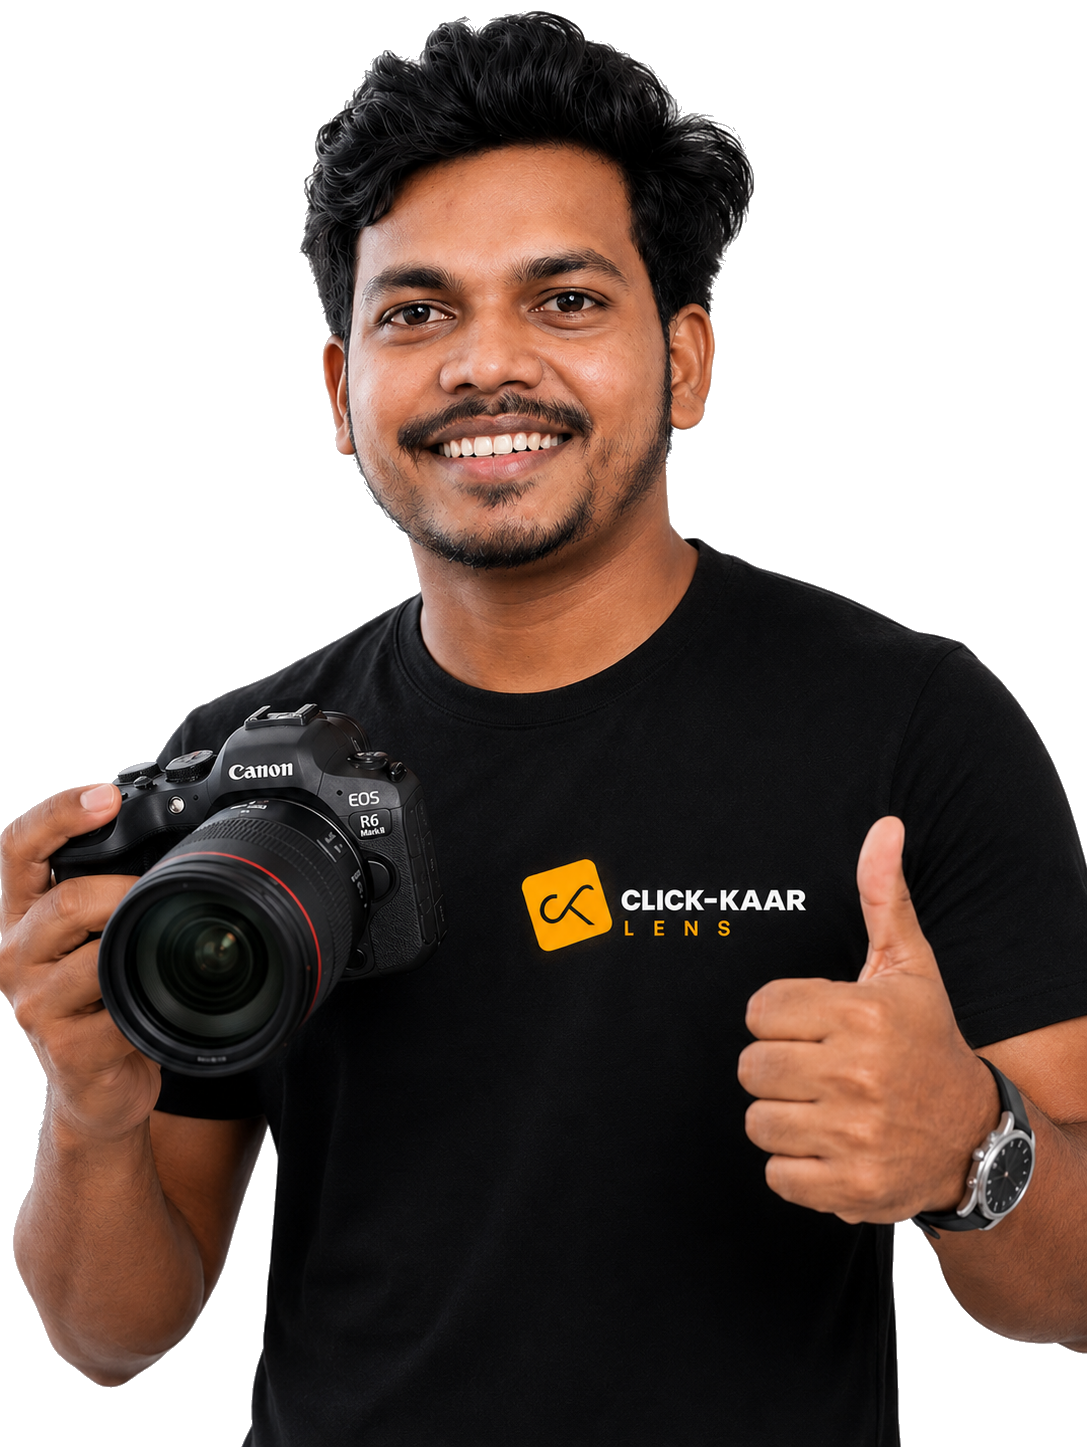
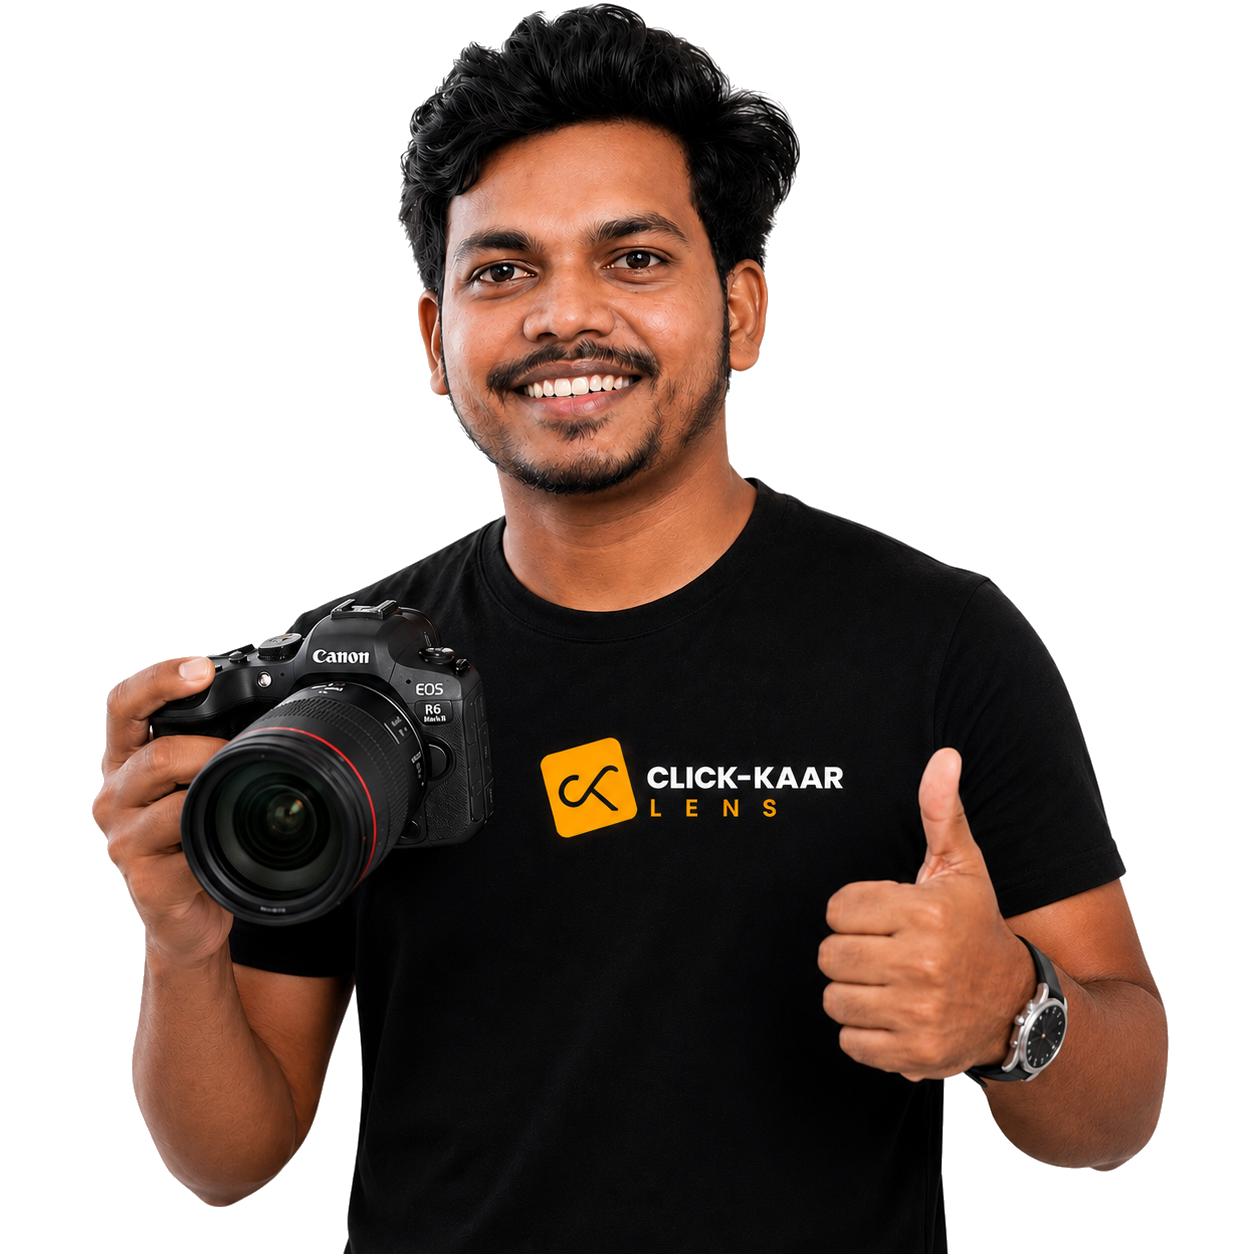
design changes

diff --git a/src/app/shared/components/lens-ui.components.ts b/src/app/shared/components/lens-ui.components.ts
@@ -347,8 +347,8 @@ export class PostRequirementFormComponent {
   template: `
     <div class="floating-contact">
       <a class="whatsapp" [href]="whatsappUrl" target="_blank" rel="noopener noreferrer" aria-label="Enquire on WhatsApp" title="WhatsApp" (click)="analytics.track('whatsapp_clicked')">
-        <svg aria-hidden="true" viewBox="0 0 32 32" focusable="false">
-          <path d="M16.02 4.5c-6.18 0-11.2 4.96-11.2 11.08 0 2.09.6 4.13 1.72 5.88L4.7 27.5l6.25-1.79a11.32 11.32 0 0 0 5.07 1.2c6.18 0 11.2-4.97 11.2-11.08S22.2 4.5 16.02 4.5Zm0 20.52c-1.7 0-3.37-.45-4.82-1.3l-.35-.2-3.7 1.06 1.08-3.55-.23-.37a9.23 9.23 0 0 1-1.4-4.86c0-5.07 4.23-9.2 9.42-9.2 5.2 0 9.42 4.13 9.42 9.2s-4.22 9.22-9.42 9.22Zm5.16-6.9c-.28-.14-1.66-.8-1.92-.9-.26-.08-.45-.13-.64.14-.19.28-.73.9-.9 1.08-.16.19-.33.2-.61.07-.28-.14-1.2-.43-2.28-1.37a8.45 8.45 0 0 1-1.58-1.94c-.17-.28-.02-.43.13-.57.13-.13.28-.33.42-.49.14-.16.19-.28.28-.46.1-.19.05-.35-.02-.49-.07-.14-.64-1.52-.88-2.08-.23-.55-.47-.47-.64-.48l-.55-.01c-.19 0-.49.07-.75.35-.26.28-.98.94-.98 2.3s1 2.67 1.14 2.86c.14.18 1.97 2.96 4.78 4.15.67.28 1.19.45 1.6.58.67.21 1.29.18 1.77.11.54-.08 1.66-.66 1.9-1.3.23-.63.23-1.18.16-1.29-.07-.12-.26-.19-.54-.32Z" />
+        <svg aria-hidden="true" viewBox="0 0 24 24" focusable="false">
+          <path d="M17.472 14.382c-.297-.149-1.758-.867-2.03-.967-.273-.099-.471-.148-.67.15-.197.297-.767.966-.94 1.164-.173.199-.347.223-.644.075-.297-.15-1.255-.463-2.39-1.475-.883-.788-1.48-1.761-1.653-2.059-.173-.297-.018-.458.13-.606.134-.133.298-.347.446-.52.149-.174.198-.298.298-.497.099-.198.05-.371-.025-.52-.075-.149-.669-1.612-.916-2.207-.242-.579-.487-.5-.669-.51-.173-.008-.371-.01-.57-.01-.198 0-.52.074-.792.372-.272.297-1.04 1.016-1.04 2.479 0 1.462 1.065 2.875 1.213 3.074.149.198 2.096 3.2 5.077 4.487.709.306 1.262.489 1.694.625.712.227 1.36.195 1.872.118.571-.085 1.758-.719 2.006-1.413.248-.694.248-1.289.173-1.413-.074-.124-.272-.198-.57-.347m-5.421 7.403h-.004a9.87 9.87 0 0 1-5.031-1.378l-.361-.214-3.741.982.998-3.648-.235-.374a9.86 9.86 0 0 1-1.51-5.26c.001-5.45 4.436-9.884 9.888-9.884 2.64 0 5.122 1.03 6.988 2.898a9.825 9.825 0 0 1 2.893 6.994c-.003 5.45-4.437 9.884-9.885 9.884m8.413-18.297A11.815 11.815 0 0 0 12.05 0C5.495 0 .16 5.335.157 11.892c0 2.096.547 4.142 1.588 5.945L.057 24l6.305-1.654a11.882 11.882 0 0 0 5.683 1.448h.005c6.554 0 11.89-5.335 11.893-11.893a11.821 11.821 0 0 0-3.48-8.413Z" />
         </svg>
       </a>
       <!-- <a class="mobile-call" [href]="callHref" aria-label="Call Click-Kaar Lens" (click)="analytics.track('call_clicked')">Call</a> -->

diff --git a/src/styles.scss b/src/styles.scss
@@ -99,7 +99,13 @@ main { padding-top: 0; }
 }
 
 .brand { display: inline-flex; gap: 10px; align-items: center; flex-shrink: 0; font-weight: 900; }
-.brand-logo { width: clamp(230px, 22vw, 330px); height: 64px; object-fit: contain; background: transparent; }
+.brand-logo {
+  width: clamp(200px, 220vw, 280px);
+  height: 64px;
+  object-fit: cover;
+  object-position: center;
+  background: transparent;
+}
 .brand-copy { display: grid; gap: 0; line-height: 1.02; }
 .brand-copy strong { color: var(--ink); font-size: 1.04rem; font-weight: 950; }
 .brand-copy em { color: var(--brand); font-style: normal; font-size: .86rem; font-weight: 900; letter-spacing: .14em; text-transform: uppercase; }
@@ -587,8 +593,16 @@ main { padding-top: 0; }
 }
 .page-section.tinted > *, .tinted > * { position: relative; z-index: 1; }
 .section-heading { max-width: 760px; margin-bottom: 28px; }
-.section-heading p, .sub-hero p { color: var(--brand); font-weight: 900; text-transform: uppercase; font-size: clamp(1rem, 1.5vw, 1.18rem); letter-spacing: .16em; }
+.section-heading p, .sub-hero p { color: var(--ink); font-weight: 900; text-transform: uppercase; font-size: clamp(1rem, 1.5vw, 1.18rem); letter-spacing: .16em; }
 .section-heading h2, .cta-band h2, .page-section h2 { font-size: clamp(2.25rem, 5vw, 4.4rem); line-height: .98; letter-spacing: -.045em; margin: 0 0 12px; font-weight: 950; }
+.requirement-section .section-heading p,
+.popular-services .section-heading p,
+.our-services .section-heading p,
+.why-choose-section .section-heading p,
+.customer-reviews .section-heading p,
+.write-review-copy .eyebrow {
+  color: var(--brand);
+}
 .section-heading span, .page-section p { color: var(--muted); }
 
 .card-grid { display: grid; grid-template-columns: repeat(3, minmax(0, 1fr)); gap: 22px; }
@@ -783,7 +797,7 @@ input:focus, select:focus, textarea:focus { background: white; border-color: rgb
   .form-grid { grid-template-columns: 1fr; }
   .mobile-call { display: inline-flex; }
   .hero { min-height: min(560px, calc(100vh - 96px)); }
-  .brand-logo { width: 220px; height: 58px; }
+  .brand-logo { width: 238px; height: 58px; }
   .page-section.tinted, .tinted, .cta-band { max-width: none; border-radius: 0; }
 }
 
